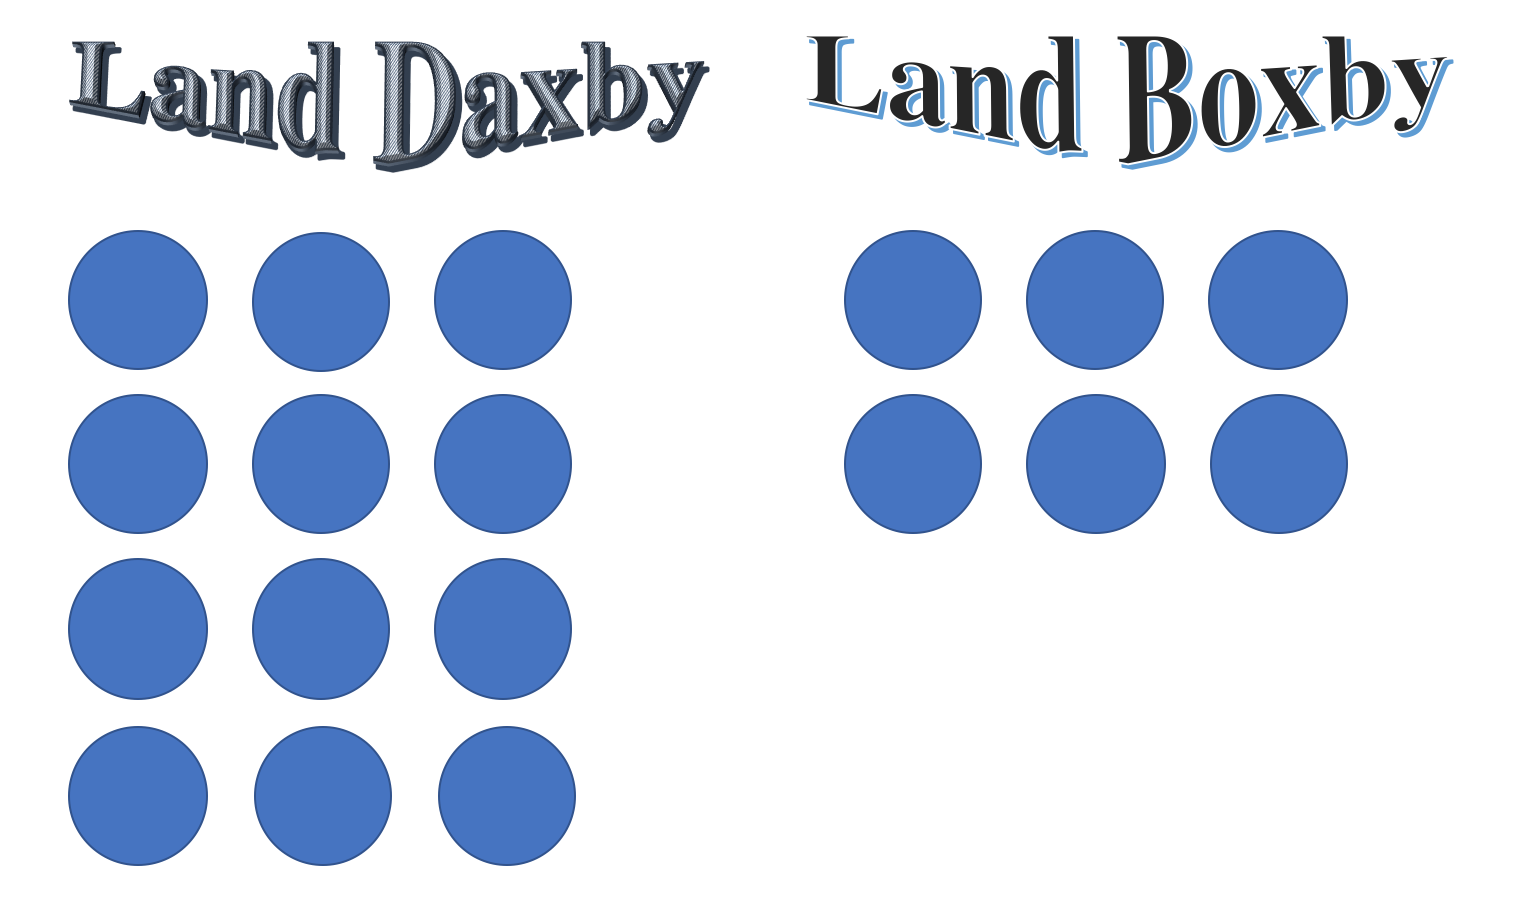
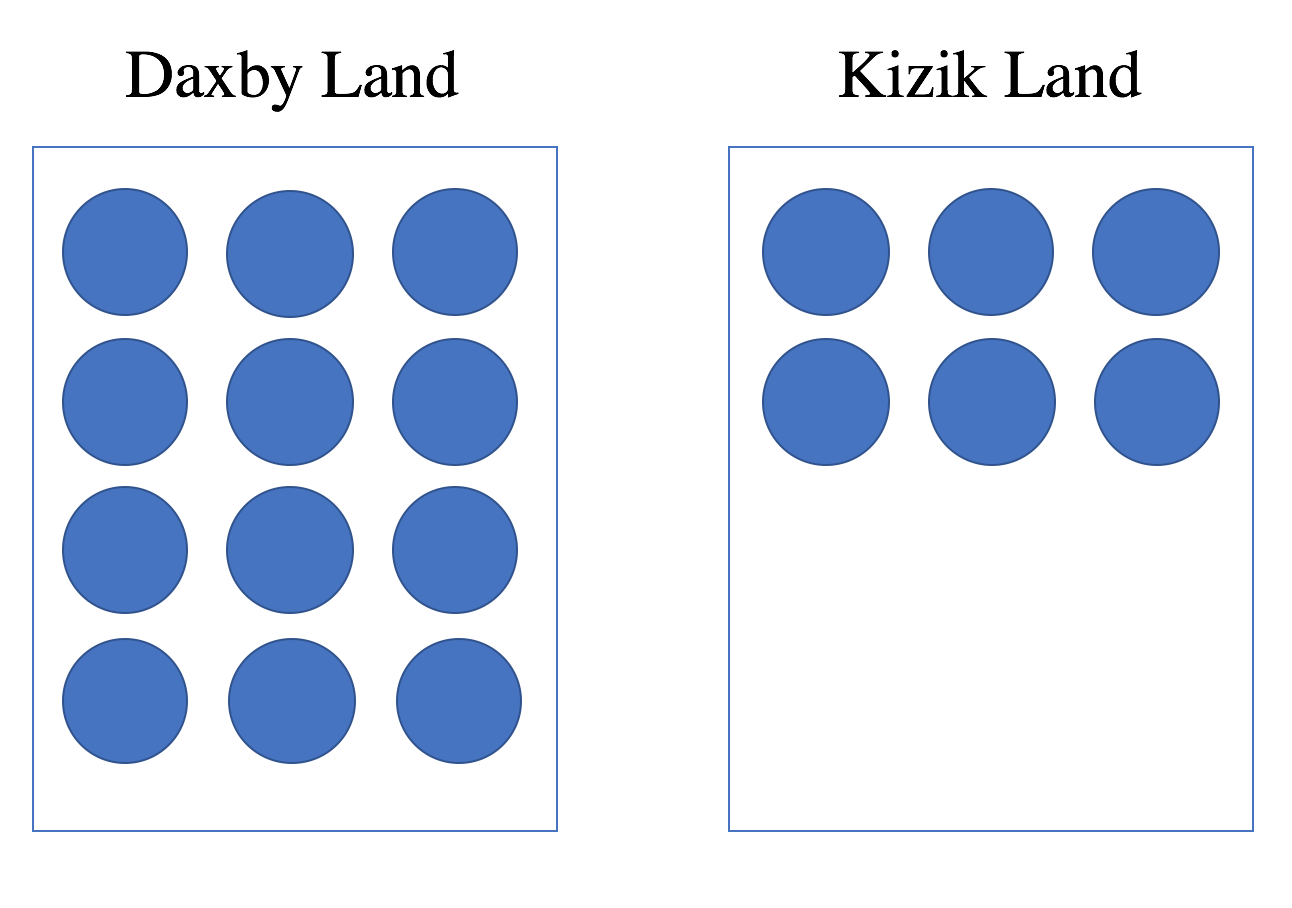
added population + bonus instruction

Changed region(s): [[0.031, 0.0308, 0.4644, 0.9559], [0.5263, 0.0308, 0.9598, 0.5859]]

diff --git a/static/js/experiment.js b/static/js/experiment.js
@@ -1,4 +1,3 @@
-
 async function initializeExperiment() {
   console.log('updated');
   console.log('initializeExperiment');
@@ -35,7 +34,7 @@ async function initializeExperiment() {
 		type: 'single-stim',
 		stimulus: "static/images/population.png",
 		choices: ["y", "n"],
-		prompt: '<p class="center-content">Each circle represents one robot. Observe that there are more robots from Daxby Land. <br> Press y when you are ready.</p>'
+		prompt: '<p class="center-content">Each circle represents one robot. <br> Observe that there are more robots from Daxby Land. <br> Press y when you are ready.</p>'
 	};
 
 
@@ -83,13 +82,12 @@ async function initializeExperiment() {
 		timeline: stimuli,
 		prompt: `<p class="center-content">
 			Where is this robot from?<br>
-			Press <b>D</b> for Daxby Land or <b>B</b> for Kizik Land.
+			Press <b>D</b> for Daxby Land or <b>K</b> for Kizik Land.
 			</p>`,
 		choices: ['b', 'd'],
 		randomize_order: true
 	};
-	console.log("test");
-//
+
 	var recall_q = ["Please write down the digits shown to you at the beginning of the experiment."];
 
 	var recall = {
@@ -97,13 +95,17 @@ async function initializeExperiment() {
 		questions: recall_q
 	};
 
+	var d_question = ["<p>Out of 100 robots from Daxby Land, how many have a <strong style = 'color: orange; font-weight: bold;'>yellow</strong> body?</p>"]
+	var k_question = ["<p>Out of 100 robots from Kizik Land, how many have a <strong style = 'color: orange; font-weight: bold;'>yellow</strong> body?</p>"]
 
-	
-	var questions = ["<p>Out of 100 robots from Daxby Land, how many have a <strong style = 'color: orange; font-weight: bold;'>yellow</strong> body?</p>", "<p>Out of 100 robots from Kizik Land, how many have a <strong style = 'color: orange; font-weight: bold;'>yellow</strong> body?</p>"]
-
-	var questions = {
+	var question_d = {
 		type: 'slider',
-		prompt: questions
+		prompt: d_question
+	};
+	
+	var question_k = {
+		type: 'slider',
+		prompt: k_question
 	};
 
 	var goodbye = {
@@ -132,7 +134,8 @@ async function initializeExperiment() {
 		bonus_instruction,
 		test,
 		recall,
-		questions,
+		question_d,
+		question_k,
 		goodbye
 	];
 
